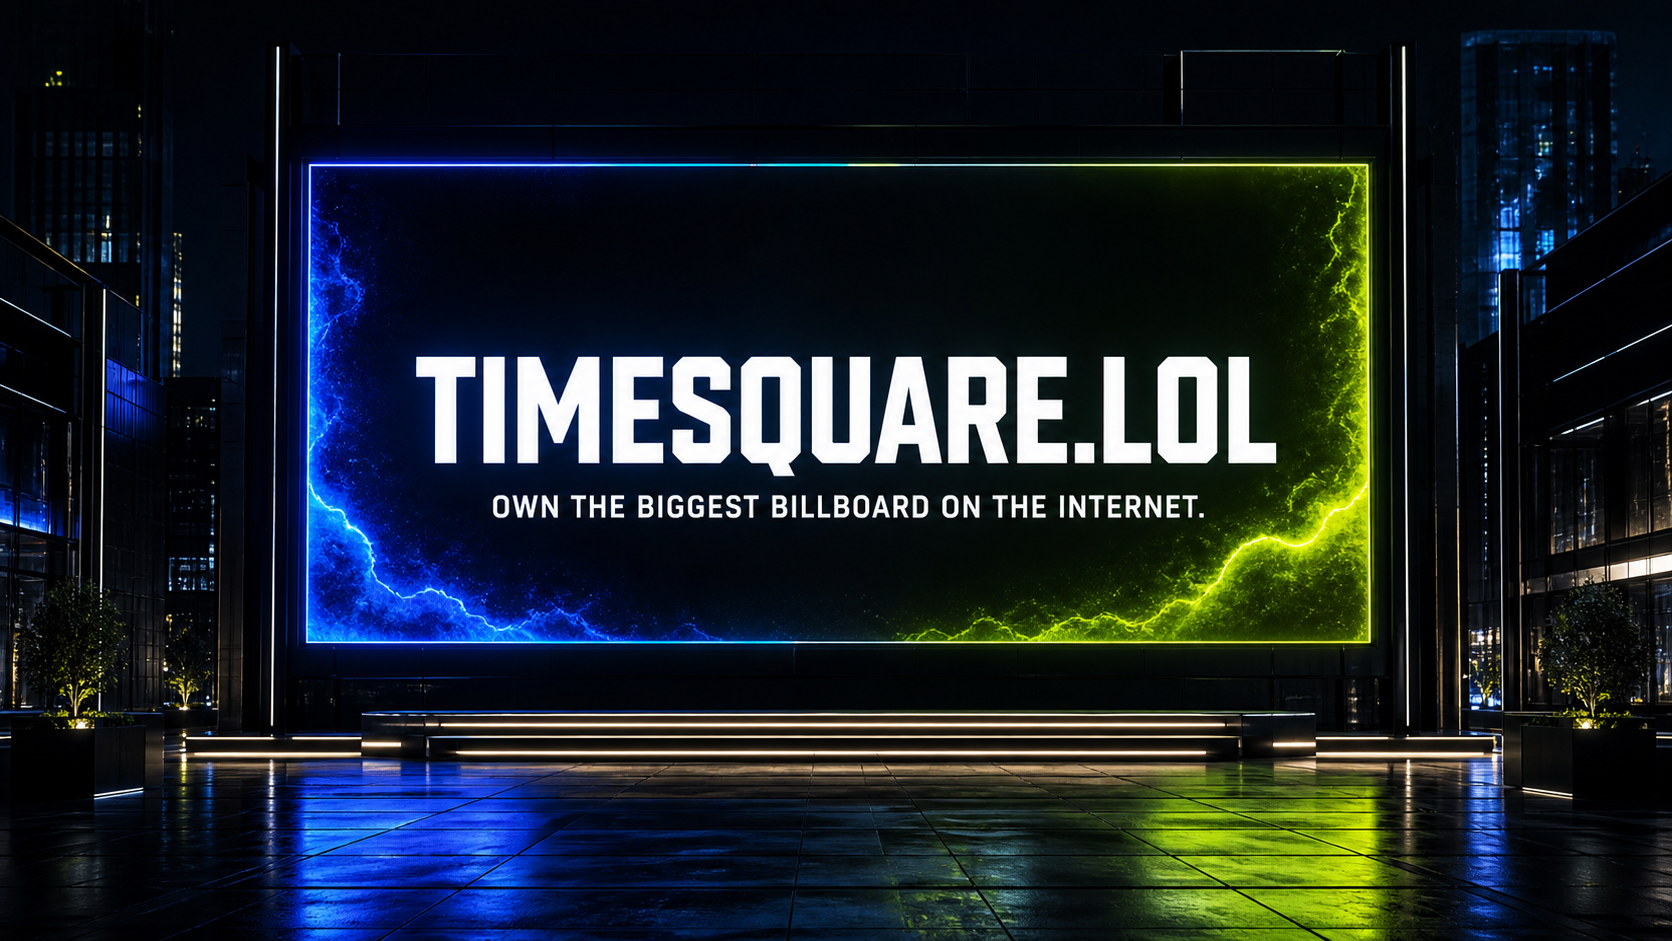
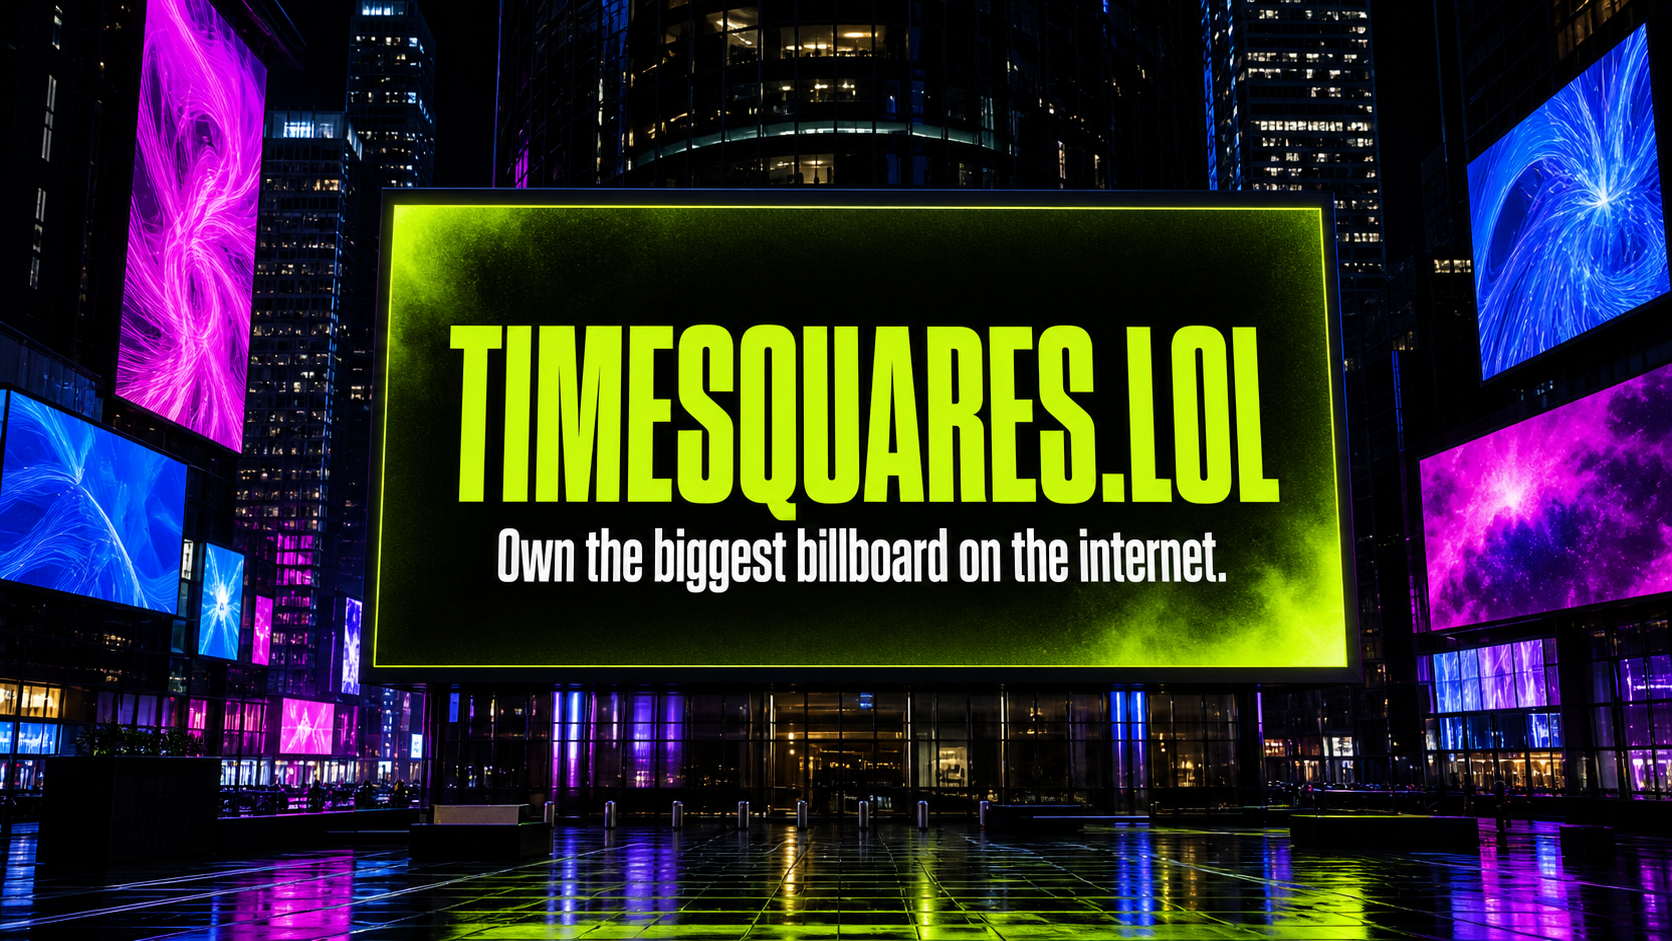
Rename brand to Timesquares.lol

diff --git a/app/BabylonSquare.tsx b/app/BabylonSquare.tsx
@@ -23,11 +23,11 @@ export default function BabylonSquare({onSelect}:Props){const canvas=useRef<HTML
     topFive.forEach((mesh,index)=>{const [name,tag,bg,fg]=featured[index];mesh.metadata={...(mesh.metadata||{}),rank:index+1};mesh.isPickable=true;
       const tex=new B.DynamicTexture(`featured_${index+1}`,{width:1024,height:512},scene,false);const ctx=tex.getContext();ctx.fillStyle=bg;ctx.fillRect(0,0,1024,512);ctx.strokeStyle=fg;ctx.lineWidth=12;ctx.strokeRect(18,18,988,476);ctx.fillStyle=fg;ctx.font='900 110px Arial';ctx.fillText(`#${index+1}`,48,125);ctx.font='900 130px Arial';ctx.fillText(name,48,286);ctx.font='bold 30px monospace';ctx.fillText(tag,52,382);tex.update();const bm=new B.StandardMaterial(`featured_material_${index+1}`,scene);bm.diffuseTexture=tex;bm.emissiveTexture=tex;bm.emissiveColor=B.Color3.White();bm.disableLighting=true;bm.backFaceCulling=false;mesh.material=bm;
     });
-    candidates.slice(5).forEach((mesh,index)=>{const rank=index+6;mesh.metadata={...(mesh.metadata||{}),rank};mesh.isPickable=true;const hue=(rank*37)%360;const tex=new B.DynamicTexture(`ranked_billboard_${rank}`,{width:1024,height:512},scene,false);const ctx=tex.getContext();ctx.fillStyle=`hsl(${hue} 55% 18%)`;ctx.fillRect(0,0,1024,512);ctx.strokeStyle='#d7ff35';ctx.lineWidth=12;ctx.strokeRect(18,18,988,476);ctx.fillStyle='#d7ff35';ctx.font='900 190px Arial';ctx.fillText(`#${rank}`,45,225);ctx.fillStyle='#fff';ctx.font='900 62px Arial';ctx.fillText('TIMESQUARE.LOL',50,350);ctx.font='bold 28px monospace';ctx.fillText('CLICK TO OUTBID THIS BILLBOARD',54,420);tex.update();const mat=new B.StandardMaterial(`ranked_material_${rank}`,scene);mat.diffuseTexture=tex;mat.emissiveTexture=tex;mat.disableLighting=true;mat.backFaceCulling=false;mesh.material=mat;});
+    candidates.slice(5).forEach((mesh,index)=>{const rank=index+6;mesh.metadata={...(mesh.metadata||{}),rank};mesh.isPickable=true;const hue=(rank*37)%360;const tex=new B.DynamicTexture(`ranked_billboard_${rank}`,{width:1024,height:512},scene,false);const ctx=tex.getContext();ctx.fillStyle=`hsl(${hue} 55% 18%)`;ctx.fillRect(0,0,1024,512);ctx.strokeStyle='#d7ff35';ctx.lineWidth=12;ctx.strokeRect(18,18,988,476);ctx.fillStyle='#d7ff35';ctx.font='900 190px Arial';ctx.fillText(`#${rank}`,45,225);ctx.fillStyle='#fff';ctx.font='900 62px Arial';ctx.fillText('TIMESQUARES.LOL',50,350);ctx.font='bold 28px monospace';ctx.fillText('CLICK TO OUTBID THIS BILLBOARD',54,420);tex.update();const mat=new B.StandardMaterial(`ranked_material_${rank}`,scene);mat.diffuseTexture=tex;mat.emissiveTexture=tex;mat.disableLighting=true;mat.backFaceCulling=false;mesh.material=mat;});
     const yearSign=B.MeshBuilder.CreatePlane('year_2026',{width:extent.z*.07,height:extent.y*.14,sideOrientation:B.Mesh.DOUBLESIDE},scene);yearSign.position.set(center.x-extent.x*.22,vectors.min.y+extent.y*.48,center.z);yearSign.rotation.y=Math.PI/2;yearSign.isPickable=false;const yearTex=new B.DynamicTexture('year_2026_texture',{width:384,height:768},scene,false);const yearCtx=yearTex.getContext();yearCtx.fillStyle='#e8e4d8';yearCtx.fillRect(0,0,384,768);yearCtx.strokeStyle='#d7ff35';yearCtx.lineWidth=16;yearCtx.strokeRect(12,12,360,744);yearCtx.fillStyle='#15191c';yearCtx.font='900 116px Arial';yearCtx.translate(192,384);yearCtx.rotate(-Math.PI/2);yearCtx.textAlign='center';yearCtx.fillText('2026',0,38);yearTex.update();const yearMat=new B.StandardMaterial('year_2026_material',scene);yearMat.diffuseTexture=yearTex;yearMat.emissiveTexture=yearTex;yearMat.disableLighting=true;yearMat.backFaceCulling=false;yearSign.material=yearMat;
     scene.onBeforeRenderObservable.add(()=>{camera.position.x=Math.min(vectors.max.x-marginX,Math.max(vectors.min.x+marginX,camera.position.x));camera.position.z=Math.min(vectors.max.z-marginZ,Math.max(vectors.min.z+marginZ,camera.position.z));camera.position.y=eyeY;camera.cameraDirection.y=0;});
     scene.onPointerObservable.add(info=>{if(info.type===B.PointerEventTypes.POINTERPICK){let mesh=info.pickInfo?.pickedMesh;while(mesh&&!mesh.metadata?.rank)mesh=mesh.parent as B.AbstractMesh|null;if(mesh?.metadata?.rank)onSelect(mesh.metadata.rank)}});
     setStatus('');
   }catch(error){console.error(error);setStatus('3D scene unavailable — open the leaderboard');}
   engine.runRenderLoop(()=>scene.render());const resize=()=>engine.resize();window.addEventListener('resize',resize);cleanup=()=>{window.removeEventListener('resize',resize);scene.dispose();engine.dispose()};
-  })();return()=>{disposed=true;cleanup()};},[onSelect]);const control=(code:number,label:string,symbol:string)=><button aria-label={label} onPointerDown={e=>{e.currentTarget.setPointerCapture(e.pointerId);sendKey(code,'keydown')}} onPointerUp={()=>sendKey(code,'keyup')} onPointerCancel={()=>sendKey(code,'keyup')}>{symbol}</button>;return <div className="babylon-stage"><canvas ref={canvas} className="babylon-canvas" aria-label="Interactive 3D Times Square billboard leaderboard"/><div className="mobile-walk" aria-label="Walking controls">{control(38,'Walk forward','▲')}<div>{control(37,'Move left','◀')}{control(40,'Walk backward','▼')}{control(39,'Move right','▶')}</div><span>DRAG TO LOOK</span></div>{status&&<div className="scene-loading" role="status"><div className="load-skyline"><i/><i/><i/><i/><i/></div><strong>TIMESQUARE<span>.LOL</span></strong><small>{status}</small><em>30 LIVE BILLBOARDS · ENTERING BROADWAY</em></div>}</div>}
+  })();return()=>{disposed=true;cleanup()};},[onSelect]);const control=(code:number,label:string,symbol:string)=><button aria-label={label} onPointerDown={e=>{e.currentTarget.setPointerCapture(e.pointerId);sendKey(code,'keydown')}} onPointerUp={()=>sendKey(code,'keyup')} onPointerCancel={()=>sendKey(code,'keyup')}>{symbol}</button>;return <div className="babylon-stage"><canvas ref={canvas} className="babylon-canvas" aria-label="Interactive 3D Times Square billboard leaderboard"/><div className="mobile-walk" aria-label="Walking controls">{control(38,'Walk forward','▲')}<div>{control(37,'Move left','◀')}{control(40,'Walk backward','▼')}{control(39,'Move right','▶')}</div><span>DRAG TO LOOK</span></div>{status&&<div className="scene-loading" role="status"><div className="load-skyline"><i/><i/><i/><i/><i/></div><strong>TIMESQUARES<span>.LOL</span></strong><small>{status}</small><em>30 LIVE BILLBOARDS · ENTERING BROADWAY</em></div>}</div>}

diff --git a/app/dashboard/bid/page.tsx b/app/dashboard/bid/page.tsx
@@ -4,4 +4,4 @@ import {useEffect,useMemo,useState} from 'react';
 const bids=[12500,8420,6180,4900,3740,3200,3085,2970,2855,2740,2625,2510,2395,2280,2165,2050,1935,1820,1705,1590,1475,1360,1245,1130,1015,900,785,670,555,440];
 const rankFor=(amount:number)=>{const passed=bids.findIndex(bid=>amount>bid);return passed===-1?30:passed+1};
 
-export default function Bid(){const [amount,setAmount]=useState(5000);const [slot,setSlot]=useState(4);useEffect(()=>{const q=new URLSearchParams(window.location.search);const next=Number(q.get('amount'));const picked=Number(q.get('slot'));if(next>0)setAmount(next);if(picked>=1&&picked<=30)setSlot(picked)},[]);const rank=useMemo(()=>rankFor(amount),[amount]);const setPreset=(value:number)=>setAmount(value);return <main className="bid-page"><a className="brand" href="/">TIMESQUARE<span>.LOL</span></a><section><p>OUTBID BILLBOARD #{slot}</p><h1>TAKE ITS PLACE</h1><div className="bid-layout"><div className="bid-form"><label>BID AMOUNT <span>USD</span></label><div className="money"><b>$</b><input value={amount||''} onChange={e=>setAmount(Number(e.target.value.replace(/\D/g,'')))} inputMode="numeric" aria-label="Bid amount"/></div><div className="presets"><button onClick={()=>setPreset(3532)}>$3,532</button><button onClick={()=>setPreset(5000)}>$5,000</button><button onClick={()=>setPreset(10000)}>$10,000</button></div><div className="projection"><span>THIS BID EARNS</span><strong>BILLBOARD #{rank}</strong><p>Your ${amount.toLocaleString()} bid would place you at rank #{rank}. Rankings can change before payment completes.</p></div><button className="pay-btn">CONTINUE FOR BILLBOARD #{rank} ↗</button><small>Your bid is activated only after server-side payment confirmation.</small></div><div className="creative-preview"><span>YOUR CREATIVE AT RANK #{rank}</span><div><small>BILLBOARD #{rank}</small><b>FORM</b><em>LESS, BUT BETTER.</em></div><p>Projected Times Square placement · Rank #{rank}</p></div></div></section></main>}
+export default function Bid(){const [amount,setAmount]=useState(5000);const [slot,setSlot]=useState(4);useEffect(()=>{const q=new URLSearchParams(window.location.search);const next=Number(q.get('amount'));const picked=Number(q.get('slot'));if(next>0)setAmount(next);if(picked>=1&&picked<=30)setSlot(picked)},[]);const rank=useMemo(()=>rankFor(amount),[amount]);const setPreset=(value:number)=>setAmount(value);return <main className="bid-page"><a className="brand" href="/">TIMESQUARES<span>.LOL</span></a><section><p>OUTBID BILLBOARD #{slot}</p><h1>TAKE ITS PLACE</h1><div className="bid-layout"><div className="bid-form"><label>BID AMOUNT <span>USD</span></label><div className="money"><b>$</b><input value={amount||''} onChange={e=>setAmount(Number(e.target.value.replace(/\D/g,'')))} inputMode="numeric" aria-label="Bid amount"/></div><div className="presets"><button onClick={()=>setPreset(3532)}>$3,532</button><button onClick={()=>setPreset(5000)}>$5,000</button><button onClick={()=>setPreset(10000)}>$10,000</button></div><div className="projection"><span>THIS BID EARNS</span><strong>BILLBOARD #{rank}</strong><p>Your ${amount.toLocaleString()} bid would place you at rank #{rank}. Rankings can change before payment completes.</p></div><button className="pay-btn">CONTINUE FOR BILLBOARD #{rank} ↗</button><small>Your bid is activated only after server-side payment confirmation.</small></div><div className="creative-preview"><span>YOUR CREATIVE AT RANK #{rank}</span><div><small>BILLBOARD #{rank}</small><b>FORM</b><em>LESS, BUT BETTER.</em></div><p>Projected Times Square placement · Rank #{rank}</p></div></div></section></main>}

diff --git a/app/dashboard/page.tsx b/app/dashboard/page.tsx
@@ -1,3 +1,3 @@
 import { getChatGPTUser } from '../chatgpt-auth';
 export const dynamic='force-dynamic';
-export default async function Dashboard(){const user=await getChatGPTUser();return <main className="dashboard"><aside className="dash-side"><a className="brand" href="/">TIMESQUARE<span>.LOL</span></a><nav><b>THE SQUARE</b><a className="active" href="/dashboard">⌁ OVERVIEW</a><a href="/dashboard/bid">▣ MY BILLBOARD</a><a href="#">↗ ANALYTICS</a><a href="#">≡ BID HISTORY</a><b>ACCOUNT</b><a href="#">◎ PROFILE & LINKS</a><a href="#">⚙ SETTINGS</a></nav></aside><section className="dash-main"><header><div><p>ADVERTISER DASHBOARD</p><h1>Good evening, {user?.name?.split(' ')[0]||'Player'}.</h1></div><a className="primary-btn" href="/dashboard/bid">RAISE YOUR BID ↗</a></header><div className="position-card"><div><span>YOUR CURRENT POSITION</span><strong>#7</strong><p>FORM · West Stack</p></div><div className="bid-big"><span>CURRENT BID</span><strong>$2,840</strong><p>Next rank: $3,532</p></div><div className="mini-square">YOUR AD<br/><b>FORM</b><small>LESS, BUT BETTER.</small></div></div><div className="metric-grid">{[['IMPRESSIONS','184,291','+12.4%'],['CLICKS','4,812','+8.1%'],['CLICK RATE','2.61%','+0.3%'],['TOTAL SPEND','$2,840','ALL TIME']].map(x=><article key={x[0]}><span>{x[0]}</span><strong>{x[1]}</strong><i>{x[2]}</i></article>)}</div><section className="chart-card"><div><span>PERFORMANCE · LAST 7 DAYS</span><b>IMPRESSIONS</b><b>CLICKS</b></div><div className="chart-bars">{[38,53,49,68,61,83,76,91,70,88,95,78,86,99].map((h,i)=><i key={i} style={{height:`${h}%`}}/>)}</div></section></section></main>}
+export default async function Dashboard(){const user=await getChatGPTUser();return <main className="dashboard"><aside className="dash-side"><a className="brand" href="/">TIMESQUARES<span>.LOL</span></a><nav><b>THE SQUARE</b><a className="active" href="/dashboard">⌁ OVERVIEW</a><a href="/dashboard/bid">▣ MY BILLBOARD</a><a href="#">↗ ANALYTICS</a><a href="#">≡ BID HISTORY</a><b>ACCOUNT</b><a href="#">◎ PROFILE & LINKS</a><a href="#">⚙ SETTINGS</a></nav></aside><section className="dash-main"><header><div><p>ADVERTISER DASHBOARD</p><h1>Good evening, {user?.name?.split(' ')[0]||'Player'}.</h1></div><a className="primary-btn" href="/dashboard/bid">RAISE YOUR BID ↗</a></header><div className="position-card"><div><span>YOUR CURRENT POSITION</span><strong>#7</strong><p>FORM · West Stack</p></div><div className="bid-big"><span>CURRENT BID</span><strong>$2,840</strong><p>Next rank: $3,532</p></div><div className="mini-square">YOUR AD<br/><b>FORM</b><small>LESS, BUT BETTER.</small></div></div><div className="metric-grid">{[['IMPRESSIONS','184,291','+12.4%'],['CLICKS','4,812','+8.1%'],['CLICK RATE','2.61%','+0.3%'],['TOTAL SPEND','$2,840','ALL TIME']].map(x=><article key={x[0]}><span>{x[0]}</span><strong>{x[1]}</strong><i>{x[2]}</i></article>)}</div><section className="chart-card"><div><span>PERFORMANCE · LAST 7 DAYS</span><b>IMPRESSIONS</b><b>CLICKS</b></div><div className="chart-bars">{[38,53,49,68,61,83,76,91,70,88,95,78,86,99].map((h,i)=><i key={i} style={{height:`${h}%`}}/>)}</div></section></section></main>}

diff --git a/app/page.tsx b/app/page.tsx
@@ -3,7 +3,7 @@ import { useCallback, useState } from 'react';
 import BabylonSquare from './BabylonSquare';
 const leaders=[{rank:1,name:'VOIDLABS',bid:'$12,500'},{rank:2,name:'AURORA®',bid:'$8,420'},{rank:3,name:'KINETIC',bid:'$6,180'},{rank:4,name:'NOVA.FM',bid:'$4,900'},{rank:5,name:'PIXEL.FUN',bid:'$3,740'},...['LAUNCH.XYZ','BUILDER.DEV','MONO','LOOP.AI','FORM','ORBIT','STACKED','NORTHSTAR','DAYBREAK','HYPERLINK','SIGNAL','MOTION','PRISM','ECHO','PARALLEL','NEON.HQ','FRAME','TOMORROW','MINT','SHIFT','ATLAS','TEMPO','VECTOR','LUMEN','LEVEL'].map((name,i)=>({rank:i+6,name,bid:`$${Math.max(250,3200-i*115).toLocaleString()}`}))];
 export default function Home(){const [selected,setSelected]=useState(1);const [hudOpen,setHudOpen]=useState(true);const [cardOpen,setCardOpen]=useState(true);const pick=useCallback((rank:number)=>{setSelected(rank);setCardOpen(true)},[]);const ad=leaders[selected-1];return <main className="square-shell babylon-page">
-  <header className="topbar"><a className="brand" href="#">TIMESQUARE<span>.LOL</span></a><div className="live-pill"><i/> LIVE <strong>30</strong> BILLBOARDS</div><nav><a href="/leaderboard">LEADERBOARD</a><a href="/dashboard">DASHBOARD</a><a className="sign-in" href="/dashboard">SIGN IN ↗</a></nav></header>
+  <header className="topbar"><a className="brand" href="#">TIMESQUARES<span>.LOL</span></a><div className="live-pill"><i/> LIVE <strong>30</strong> BILLBOARDS</div><nav><a href="/leaderboard">LEADERBOARD</a><a href="/dashboard">DASHBOARD</a><a className="sign-in" href="/dashboard">SIGN IN ↗</a></nav></header>
   <BabylonSquare onSelect={pick}/>
   {hudOpen&&<section className="square-hud"><button className="hud-close" aria-label="Close introduction" onClick={()=>setHudOpen(false)}>×</button><div><i/> 30 LIVE BILLBOARDS</div><strong>TOP 5 OWN<br/>THE SKYLINE.</strong><span>Walk the full strip · Drag to look · Click any screen</span><a href="/dashboard/bid">TAKE A BILLBOARD ↗</a></section>}
   {cardOpen&&<aside className="rank-card"><div className="card-top"><span>BILLBOARD #{ad.rank}</span><button aria-label="Close billboard details" onClick={()=>setCardOpen(false)}>×</button></div><div className="rank-row"><div className="rank-number">#{ad.rank}</div><div><h2>{ad.name}</h2><a href={`/advertiser/${ad.name.toLowerCase().replace(/[^a-z]/g,'')}`}>VISIT PROFILE ↗</a></div></div><div className="stats-row"><div><span>CURRENT BID</span><strong>{ad.bid}</strong></div><div><span>HELD FOR</span><strong>{ad.rank===1?'18h 42m':'6h 14m'}</strong></div></div><a className="outbid-btn" href={`/dashboard/bid?slot=${ad.rank}&amount=${Math.ceil(Number(ad.bid.replace(/[$,]/g,''))*1.1)}`}>OUTBID #{ad.rank} — ${(Math.ceil(Number(ad.bid.replace(/[$,]/g,''))*1.1)).toLocaleString()} <b>↗</b></a><p>Enter any bid to preview the billboard rank it earns.</p></aside>}

diff --git a/app/leaderboard/page.tsx b/app/leaderboard/page.tsx
@@ -1,2 +1,2 @@
 import { advertisers } from '../data';
-export default function Leaderboard(){return <main className="inner-page"><header className="inner-nav"><a className="brand" href="/">TIMESQUARE<span>.LOL</span></a><a className="primary-btn" href="/dashboard/bid">GET A BILLBOARD ↗</a></header><section className="page-head"><p>LIVE RANKINGS · UPDATED NOW</p><h1>THE LEADERBOARD</h1><span>Bid more. Move up. Own more of the square.</span></section><section className="leader-table"><div className="table-row table-label"><span>RANK</span><span>ADVERTISER</span><span>CURRENT BID</span><span>BILLBOARD</span><span>HOLD TIME</span><span /></div>{advertisers.map((a,i)=><a className="table-row" href={`/advertiser/${a[0].toLowerCase().replace(/[^a-z]/g,'')}`} key={a[0]}><strong>#{i+1}</strong><b>{a[0]}</b><span>${a[1].toLocaleString()}</span><span>{a[2]}</span><span>{a[3]}</span><em>{i<3?'LIVE IN THE SQUARE':'VIEW'} →</em></a>)}</section></main>}
+export default function Leaderboard(){return <main className="inner-page"><header className="inner-nav"><a className="brand" href="/">TIMESQUARES<span>.LOL</span></a><a className="primary-btn" href="/dashboard/bid">GET A BILLBOARD ↗</a></header><section className="page-head"><p>LIVE RANKINGS · UPDATED NOW</p><h1>THE LEADERBOARD</h1><span>Bid more. Move up. Own more of the square.</span></section><section className="leader-table"><div className="table-row table-label"><span>RANK</span><span>ADVERTISER</span><span>CURRENT BID</span><span>BILLBOARD</span><span>HOLD TIME</span><span /></div>{advertisers.map((a,i)=><a className="table-row" href={`/advertiser/${a[0].toLowerCase().replace(/[^a-z]/g,'')}`} key={a[0]}><strong>#{i+1}</strong><b>{a[0]}</b><span>${a[1].toLocaleString()}</span><span>{a[2]}</span><span>{a[3]}</span><em>{i<3?'LIVE IN THE SQUARE':'VIEW'} →</em></a>)}</section></main>}

diff --git a/app/layout.tsx b/app/layout.tsx
@@ -13,10 +13,10 @@ const geistMono = Geist_Mono({
 });
 
 export const metadata: Metadata = {
-  title: 'Timesquare.lol — Own the Biggest Billboard on the Internet',
+  title: 'Timesquares.lol — Own the Biggest Billboard on the Internet',
   description: 'Bid your way up the square. The bigger the bid, the bigger the billboard.',
-  openGraph: { title: 'TIMESQUARE.LOL', description: 'Own the biggest billboard on the internet.', images: ['/og.png'] },
-  twitter: { card: 'summary_large_image', title: 'TIMESQUARE.LOL', description: 'Own the biggest billboard on the internet.', images: ['/og.png'] },
+  openGraph: { title: 'TIMESQUARES.LOL', description: 'Own the biggest billboard on the internet.', images: ['/og.png'] },
+  twitter: { card: 'summary_large_image', title: 'TIMESQUARES.LOL', description: 'Own the biggest billboard on the internet.', images: ['/og.png'] },
 };
 
 export default function RootLayout({
